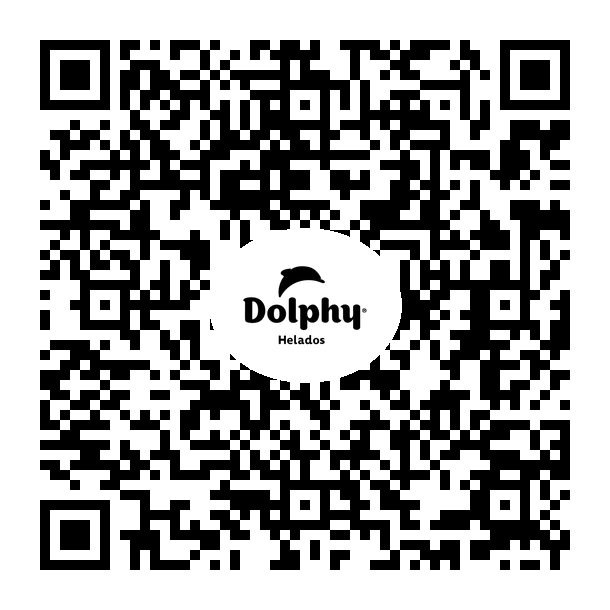
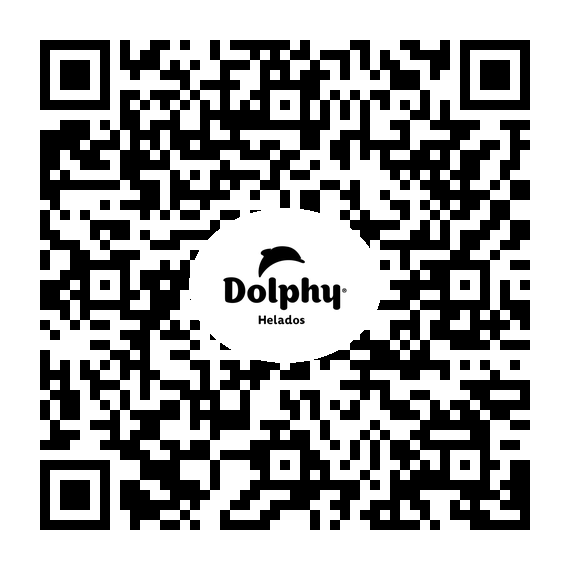
cambios generales

diff --git a/estilos.css b/estilos.css
@@ -3,6 +3,10 @@ body {
     font-family: Arial, sans-serif;
     margin: 20px;
     padding: 20px;
+    border: 1px solid #ccc;
+    border-radius: 10px;
+    max-width: 800px;
+    margin: auto;
     background-color: #f0f8ff;
 }
 
@@ -33,24 +37,53 @@ a:hover {
     color: #ff69b4;
 }
 
-.index-container {
-    border: 1px solid #ccc;
-    border-radius: 10px;
-    max-width: 400px;
-    margin: auto;
-    padding: 20px;
-}
-
 .card {
-    border: 1px solid #ccc;
+    background-color: white;
     border-radius: 10px;
-    max-width: 600px;
-    margin: auto;
+    box-shadow: 0 4px 8px rgba(0, 0, 0, 0.1);
     padding: 20px;
-    background-color: #fff;
+    margin: 20px 0;
 }
 
-.qr-container {
-    text-align: center;
-    margin-top: 10px;
+/* NUEVO: estilo tipo credencial */
+.credencial {
+    width: 350px;
+    height: auto; /* más flexible que 500px fijos */
+    border: 4px solid #1E90FF;
+    border-radius: 15px;
+    background-color: #ffffff;
+    display: flex;
+    flex-direction: column;
+    align-items: center;
+    padding: 20px;
+    box-shadow: 0 4px 12px rgba(0, 0, 0, 0.15);
+    gap: 10px; /* Espacio uniforme entre elementos internos */
 }
+
+.logo-superior-container {
+    text-align: center;
+}
+
+.logo-superior {
+    max-width: 200px;
+    height: auto;
+    margin-bottom: 10px; /* Espacio debajo del logo */
+}
+
+.info-container {
+    text-align: center;
+}
+
+h1 {
+    color: #1E90FF;
+    font-size: 24px;
+    margin: 10px 0;
+}
+
+p {
+    font-size: 18px;
+    margin: 5px 0;
+    color: #333;
+}
+
+

diff --git a/empleados_html/Emmanuel Valdivia_DiseÃ±adora_4.html b/empleados_html/Emmanuel Valdivia_DiseÃ±adora_4.html
@@ -8,13 +8,16 @@
     <link rel="stylesheet" type="text/css" href="../estilos.css">
 </head>
 <body>
-    <div class="card">
-        <h1>Perfil de Emmanuel Valdivia</h1>
-        <p><strong>Código:</strong> 4</p>
-        <p><strong>Cargo:</strong> DiseÃ±adora</p>
-        <div class="qr-container">
-            <img src="../qrcodes/Emmanuel Valdivia_DiseÃ±adora_4.png" alt="QR Code">
+    <div class="card credencial">
+        <div class="logo-superior-container">
+            <img src="../logovcard.jpg" alt="Logo de Dolphy Helados" class="logo-superior">
+        </div>
+        <div class="info-container">
+            <h1>Emmanuel Valdivia</h1>
+            <p><strong>Cargo:</strong> DiseÃ±adora</p>
+            <p><strong>Código:</strong> 4</p>
         </div>
     </div>
 </body>
 </html>
+

diff --git a/empleados_html/Diego Yerenas_Desarrollador_3.html b/empleados_html/Diego Yerenas_Desarrollador_3.html
@@ -8,13 +8,16 @@
     <link rel="stylesheet" type="text/css" href="../estilos.css">
 </head>
 <body>
-    <div class="card">
-        <h1>Perfil de Diego Yerenas</h1>
-        <p><strong>Código:</strong> 3</p>
-        <p><strong>Cargo:</strong> Desarrollador</p>
-        <div class="qr-container">
-            <img src="../qrcodes/Diego Yerenas_Desarrollador_3.png" alt="QR Code">
+    <div class="card credencial">
+        <div class="logo-superior-container">
+            <img src="../logovcard.jpg" alt="Logo de Dolphy Helados" class="logo-superior">
+        </div>
+        <div class="info-container">
+            <h1>Diego Yerenas</h1>
+            <p><strong>Cargo:</strong> Desarrollador</p>
+            <p><strong>Código:</strong> 3</p>
         </div>
     </div>
 </body>
 </html>
+

diff --git a/empleados_html/Alejandro Cholico_Analista_2.html b/empleados_html/Alejandro Cholico_Analista_2.html
@@ -8,13 +8,16 @@
     <link rel="stylesheet" type="text/css" href="../estilos.css">
 </head>
 <body>
-    <div class="card">
-        <h1>Perfil de Alejandro Cholico</h1>
-        <p><strong>Código:</strong> 2</p>
-        <p><strong>Cargo:</strong> Analista</p>
-        <div class="qr-container">
-            <img src="../qrcodes/Alejandro Cholico_Analista_2.png" alt="QR Code">
+    <div class="card credencial">
+        <div class="logo-superior-container">
+            <img src="../logovcard.jpg" alt="Logo de Dolphy Helados" class="logo-superior">
+        </div>
+        <div class="info-container">
+            <h1>Alejandro Cholico</h1>
+            <p><strong>Cargo:</strong> Analista</p>
+            <p><strong>Código:</strong> 2</p>
         </div>
     </div>
 </body>
 </html>
+

diff --git a/empleados_html/Daniel Neri_Gerente_1.html b/empleados_html/Daniel Neri_Gerente_1.html
@@ -8,13 +8,16 @@
     <link rel="stylesheet" type="text/css" href="../estilos.css">
 </head>
 <body>
-    <div class="card">
-        <h1>Perfil de Daniel Neri</h1>
-        <p><strong>Código:</strong> 1</p>
-        <p><strong>Cargo:</strong> Gerente</p>
-        <div class="qr-container">
-            <img src="../qrcodes/Daniel Neri_Gerente_1.png" alt="QR Code">
+    <div class="card credencial">
+        <div class="logo-superior-container">
+            <img src="../logovcard.jpg" alt="Logo de Dolphy Helados" class="logo-superior">
+        </div>
+        <div class="info-container">
+            <h1>Daniel Neri</h1>
+            <p><strong>Cargo:</strong> Gerente</p>
+            <p><strong>Código:</strong> 1</p>
         </div>
     </div>
 </body>
 </html>
+

diff --git a/empleados_html/jorge_contador_5.html b/empleados_html/jorge_contador_5.html
@@ -8,13 +8,16 @@
     <link rel="stylesheet" type="text/css" href="../estilos.css">
 </head>
 <body>
-    <div class="card">
-        <h1>Perfil de jorge</h1>
-        <p><strong>Código:</strong> 5</p>
-        <p><strong>Cargo:</strong> contador</p>
-        <div class="qr-container">
-            <img src="../qrcodes/jorge_contador_5.png" alt="QR Code">
+    <div class="card credencial">
+        <div class="logo-superior-container">
+            <img src="../logovcard.jpg" alt="Logo de Dolphy Helados" class="logo-superior">
+        </div>
+        <div class="info-container">
+            <h1>jorge</h1>
+            <p><strong>Cargo:</strong> contador</p>
+            <p><strong>Código:</strong> 5</p>
         </div>
     </div>
 </body>
 </html>
+

diff --git a/qrmasivospagina.py b/qrmasivospagina.py
@@ -18,17 +18,21 @@ HTML_TEMPLATE = """
     <link rel="stylesheet" type="text/css" href="../estilos.css">
 </head>
 <body>
-    <div class="card">
-        <h1>Perfil de {nombre}</h1>
-        <p><strong>Código:</strong> {codigo}</p>
-        <p><strong>Cargo:</strong> {cargo}</p>
-        <div class="qr-container">
-            <img src="../qrcodes/{nombre}_{cargo}_{codigo}.png" alt="QR Code">
+    <div class="card credencial">
+        <div class="logo-superior-container">
+            <img src="../logovcard.jpg" alt="Logo de Dolphy Helados" class="logo-superior">
+        </div>
+        <div class="info-container">
+            <h1>{nombre}</h1>
+            <p><strong>Cargo:</strong> {cargo}</p>
+            <p><strong>Código:</strong> {codigo}</p>
         </div>
     </div>
 </body>
 </html>
+
 """
+
 
 def crear_carpeta_salida():
     os.makedirs(OUTPUT_FOLDER, exist_ok=True)
@@ -129,6 +133,10 @@ body {
     font-family: Arial, sans-serif;
     margin: 20px;
     padding: 20px;
+    border: 1px solid #ccc;
+    border-radius: 10px;
+    max-width: 800px;
+    margin: auto;
     background-color: #f0f8ff;
 }
 
@@ -159,27 +167,56 @@ a:hover {
     color: #ff69b4;
 }
 
-.index-container {
-    border: 1px solid #ccc;
-    border-radius: 10px;
-    max-width: 400px;
-    margin: auto;
-    padding: 20px;
-}
-
 .card {
-    border: 1px solid #ccc;
+    background-color: white;
     border-radius: 10px;
-    max-width: 600px;
-    margin: auto;
+    box-shadow: 0 4px 8px rgba(0, 0, 0, 0.1);
     padding: 20px;
-    background-color: #fff;
+    margin: 20px 0;
 }
 
-.qr-container {
-    text-align: center;
-    margin-top: 10px;
+/* NUEVO: estilo tipo credencial */
+.credencial {
+    width: 350px;
+    height: auto; /* más flexible que 500px fijos */
+    border: 4px solid #1E90FF;
+    border-radius: 15px;
+    background-color: #ffffff;
+    display: flex;
+    flex-direction: column;
+    align-items: center;
+    padding: 20px;
+    box-shadow: 0 4px 12px rgba(0, 0, 0, 0.15);
+    gap: 10px; /* Espacio uniforme entre elementos internos */
 }
+
+.logo-superior-container {
+    text-align: center;
+}
+
+.logo-superior {
+    max-width: 200px;
+    height: auto;
+    margin-bottom: 10px; /* Espacio debajo del logo */
+}
+
+.info-container {
+    text-align: center;
+}
+
+h1 {
+    color: #1E90FF;
+    font-size: 24px;
+    margin: 10px 0;
+}
+
+p {
+    font-size: 18px;
+    margin: 5px 0;
+    color: #333;
+}
+
+
 """
     with open('estilos.css', 'w', encoding='utf-8') as f:
         f.write(css_content)
@@ -188,11 +225,10 @@ def main():
     crear_carpeta_salida()
     empleados = leer_empleados_csv('datos_ejemplo.csv')
     generar_perfiles_html(empleados)
-    generar_qr(empleados, 'https://tu-usuario.github.io/mi-proyecto')
+    generar_qr(empleados, 'https://sistemashyd.github.io/qr/')
     generar_index_html(empleados)
     crear_archivo_css()
     print("Perfiles HTML, códigos QR, índice y estilos generados correctamente.")
 
 if __name__ == "__main__":
     main()
-
